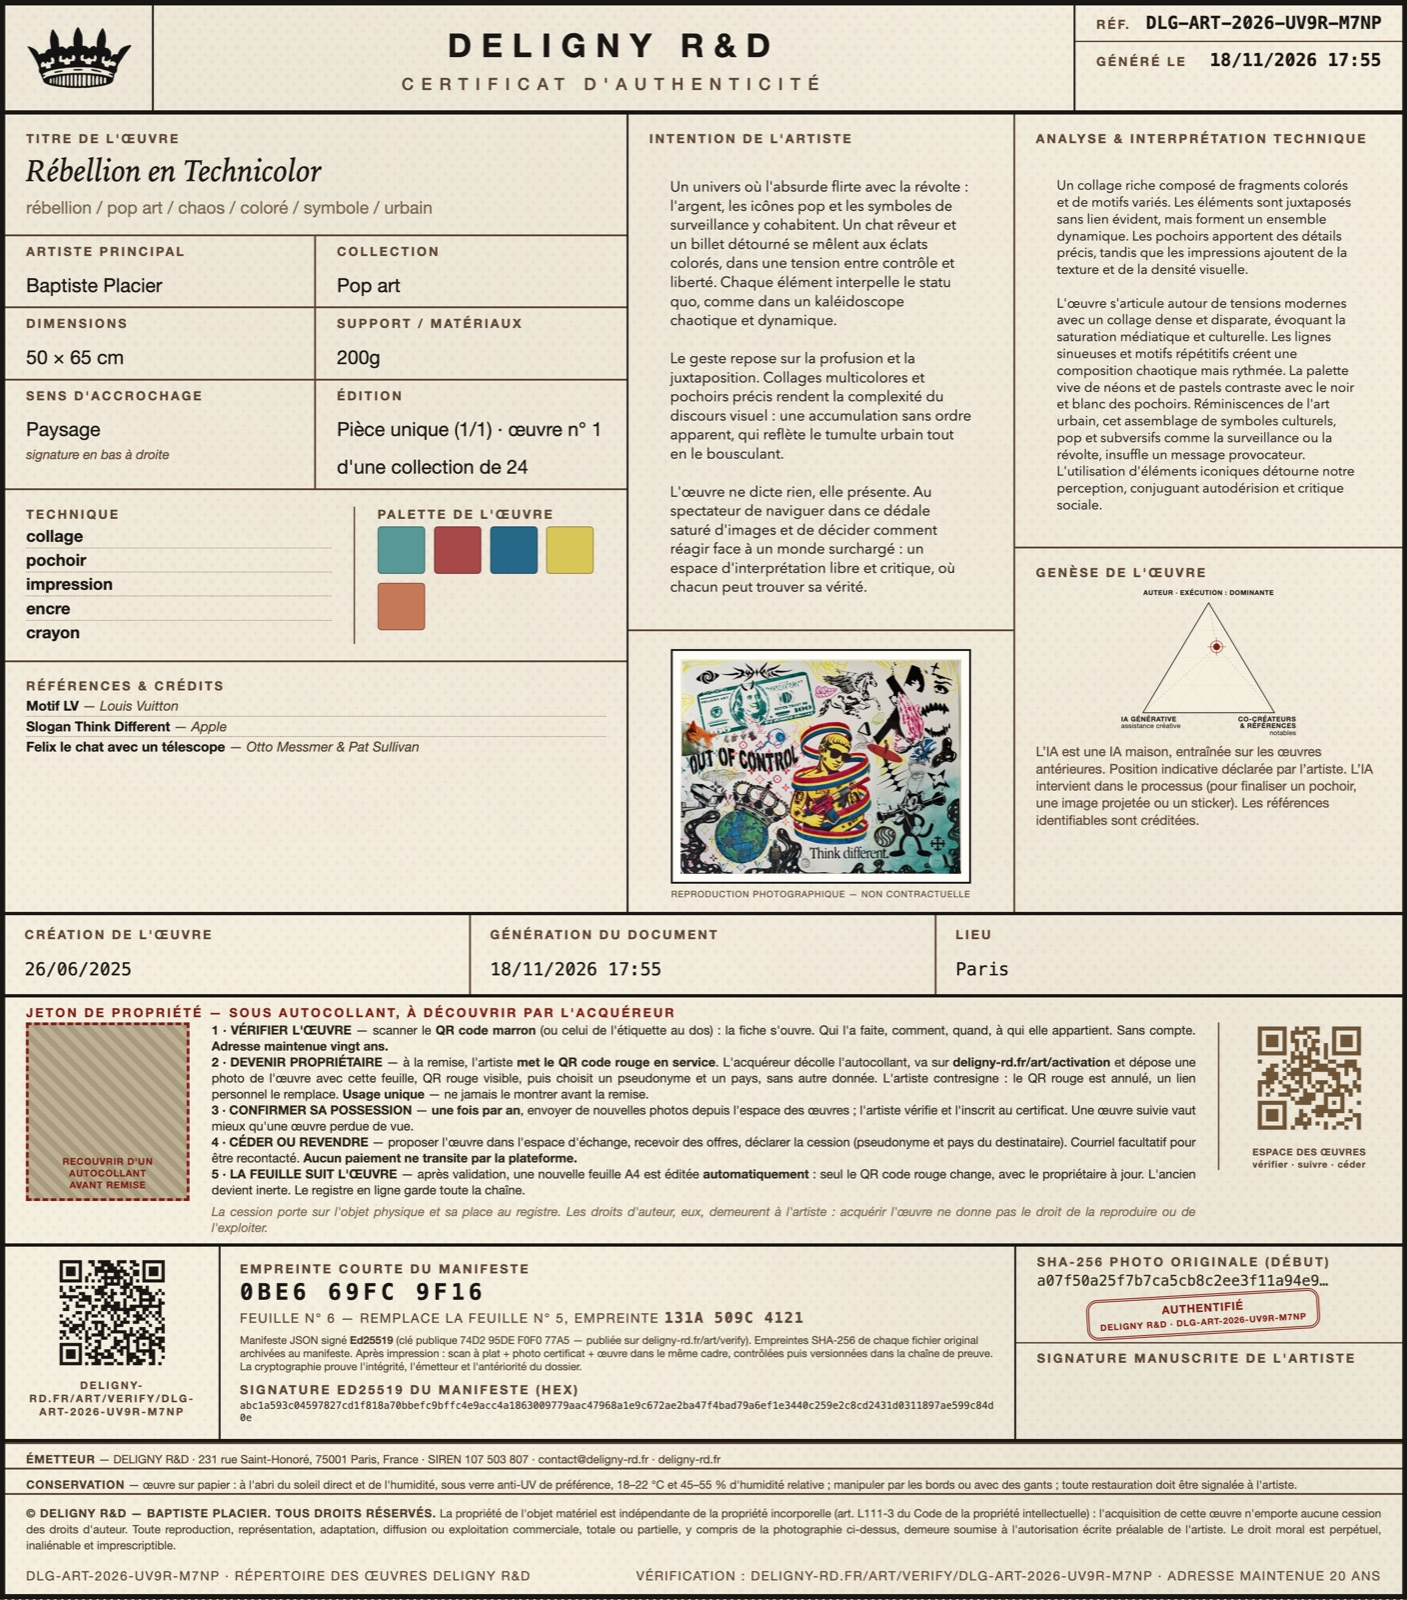
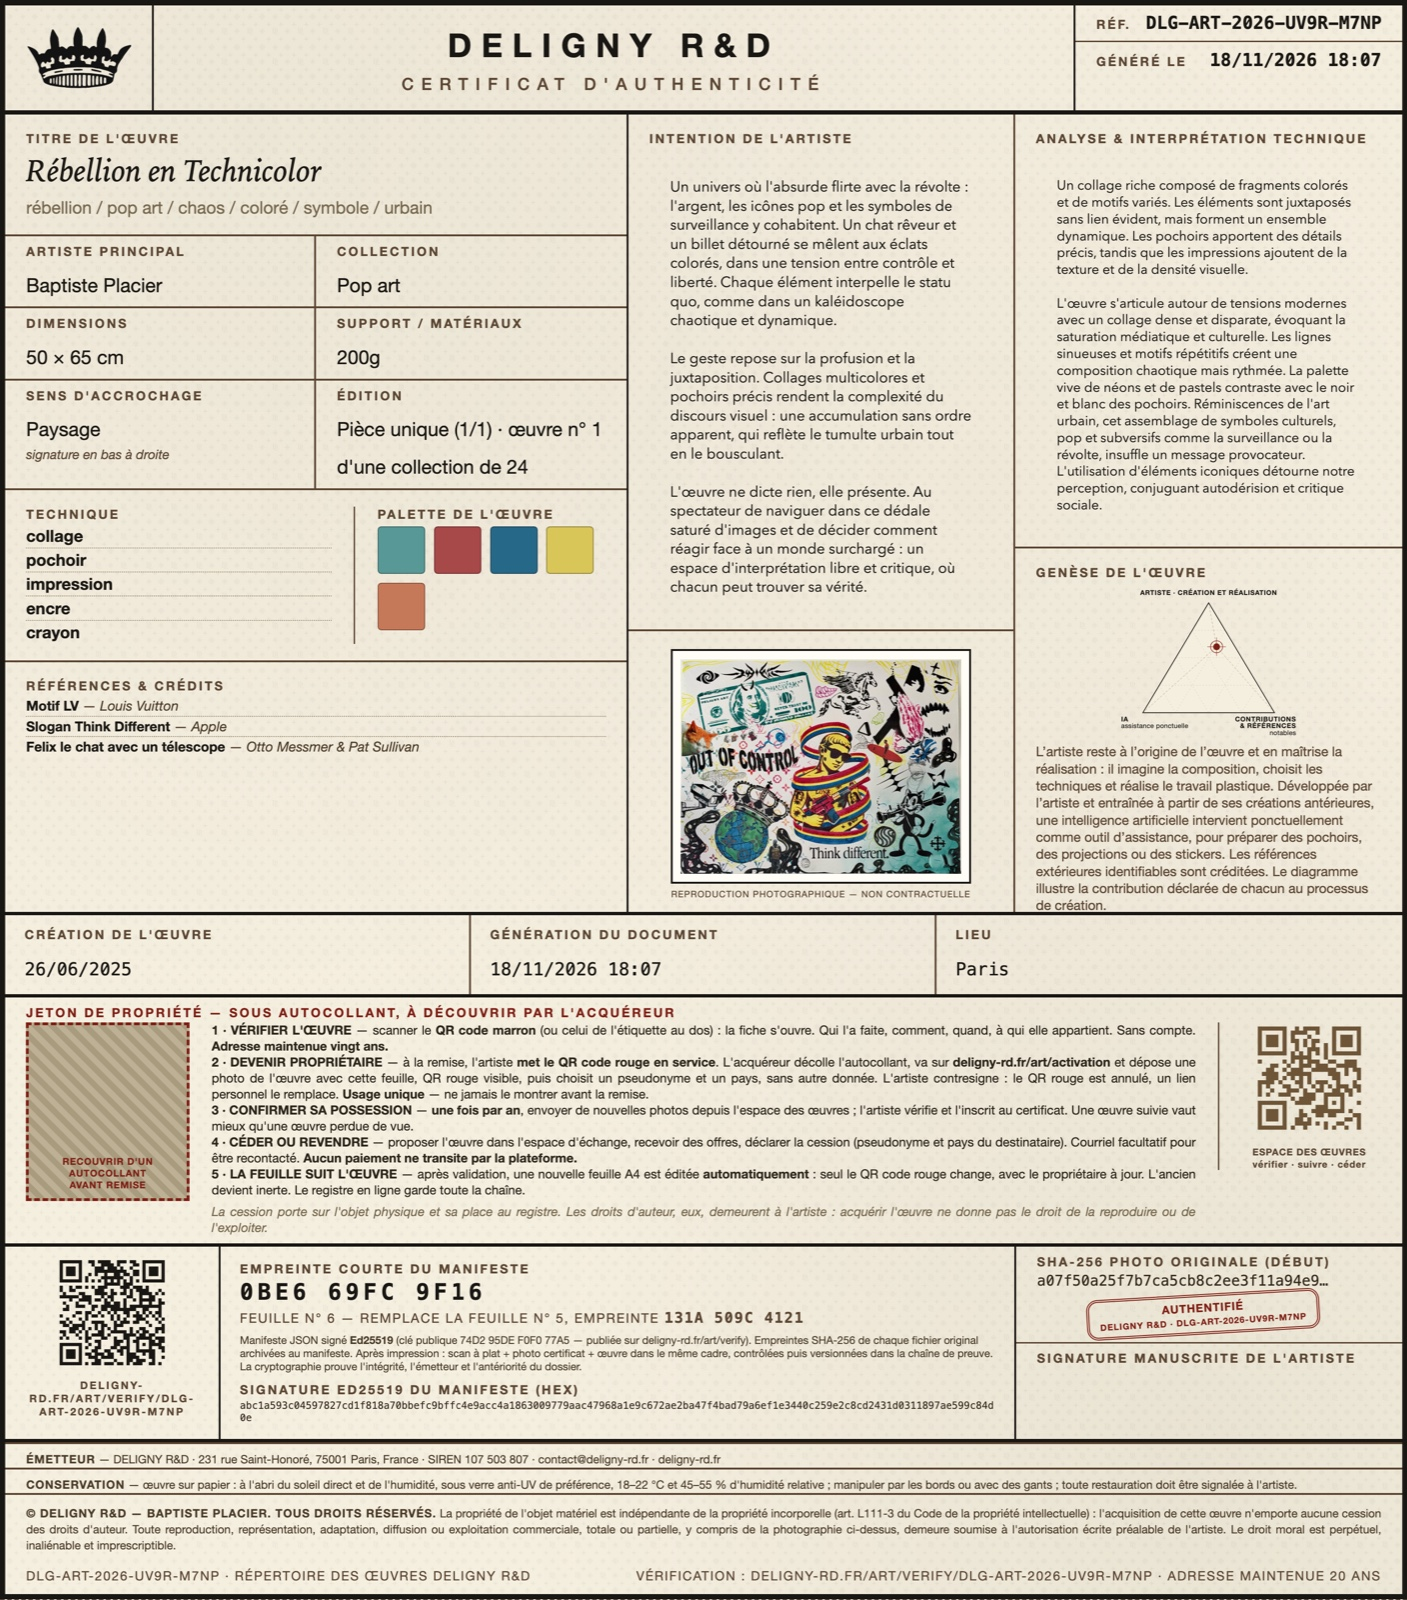
Art : genese reformulee sur les fiches (artiste, IA outil ponctuel, contributions et references)

Changed region(s): [[0.7335, 0.4375, 0.978, 0.5938], [0.9474, 0.0312, 0.978, 0.0625]]

diff --git a/art/verify/DLG-ART-2026-ET3D-G8HV/index.html b/art/verify/DLG-ART-2026-ET3D-G8HV/index.html
@@ -145,13 +145,13 @@ Aucun dogme n&#x27;est imposé ici. La composition abandonne ses signaux discord
   <circle cx="102.2" cy="73.7" r="7.8" fill="none" stroke="#7e1e14" stroke-width="0.7"/>
   <line x1="90.2" y1="73.7" x2="114.2" y2="73.7" stroke="#7e1e14" stroke-width="0.5"/>
   <line x1="102.2" y1="61.7" x2="102.2" y2="85.7" stroke="#7e1e14" stroke-width="0.5"/>
-  <text x="115.0" y="14" text-anchor="middle" class="tlab">AUTEUR · EXÉCUTION : DOMINANTE</text>
-  <text x="2" y="177" text-anchor="start" class="tlab">IA GÉNÉRATIVE</text>
-  <text x="2" y="186" text-anchor="start" class="tlab tniv">assistance créative</text>
-  <text x="228" y="177" text-anchor="end" class="tlab">CO-CRÉATEURS</text>
+  <text x="115.0" y="14" text-anchor="middle" class="tlab">ARTISTE · CRÉATION ET RÉALISATION</text>
+  <text x="2" y="177" text-anchor="start" class="tlab">IA</text>
+  <text x="2" y="186" text-anchor="start" class="tlab tniv">assistance ponctuelle</text>
+  <text x="228" y="177" text-anchor="end" class="tlab">CONTRIBUTIONS</text>
   <text x="228" y="186" text-anchor="end" class="tlab">&amp; RÉFÉRENCES</text>
   <text x="228" y="195" text-anchor="end" class="tlab tniv">ponctuelles</text>
-</svg></div><p style="font-size:11.5px;color:#5b4632">L’IA est une IA maison, entraînée sur les œuvres antérieures. Position indicative déclarée par l’artiste. L’IA intervient dans le processus (pour finaliser un pochoir, une image projetée ou un sticker). Les références identifiables sont créditées.</p>
+</svg></div><p style="font-size:11.5px;color:#5b4632">L’artiste reste à l’origine de l’œuvre et en maîtrise la réalisation : il imagine la composition, choisit les techniques et réalise le travail plastique. Développée par l’artiste et entraînée à partir de ses créations antérieures, une intelligence artificielle intervient ponctuellement comme outil d’assistance, pour préparer des pochoirs, des projections ou des stickers. Les références extérieures identifiables sont créditées. Le diagramme illustre la contribution déclarée de chacun au processus de création.</p>
 
 
 

diff --git a/art/verify/DLG-ART-2026-UV9R-M7NP/index.html b/art/verify/DLG-ART-2026-UV9R-M7NP/index.html
@@ -144,13 +144,13 @@ L&#x27;œuvre ne dicte rien, elle présente. Au spectateur de naviguer dans ce d
   <circle cx="125.2" cy="80.8" r="7.8" fill="none" stroke="#7e1e14" stroke-width="0.7"/>
   <line x1="113.2" y1="80.8" x2="137.2" y2="80.8" stroke="#7e1e14" stroke-width="0.5"/>
   <line x1="125.2" y1="68.8" x2="125.2" y2="92.8" stroke="#7e1e14" stroke-width="0.5"/>
-  <text x="115.0" y="14" text-anchor="middle" class="tlab">AUTEUR · EXÉCUTION : DOMINANTE</text>
-  <text x="2" y="177" text-anchor="start" class="tlab">IA GÉNÉRATIVE</text>
-  <text x="2" y="186" text-anchor="start" class="tlab tniv">assistance créative</text>
-  <text x="228" y="177" text-anchor="end" class="tlab">CO-CRÉATEURS</text>
+  <text x="115.0" y="14" text-anchor="middle" class="tlab">ARTISTE · CRÉATION ET RÉALISATION</text>
+  <text x="2" y="177" text-anchor="start" class="tlab">IA</text>
+  <text x="2" y="186" text-anchor="start" class="tlab tniv">assistance ponctuelle</text>
+  <text x="228" y="177" text-anchor="end" class="tlab">CONTRIBUTIONS</text>
   <text x="228" y="186" text-anchor="end" class="tlab">&amp; RÉFÉRENCES</text>
   <text x="228" y="195" text-anchor="end" class="tlab tniv">notables</text>
-</svg></div><p style="font-size:11.5px;color:#5b4632">L’IA est une IA maison, entraînée sur les œuvres antérieures. Position indicative déclarée par l’artiste. L’IA intervient dans le processus (pour finaliser un pochoir, une image projetée ou un sticker). Les références identifiables sont créditées.</p>
+</svg></div><p style="font-size:11.5px;color:#5b4632">L’artiste reste à l’origine de l’œuvre et en maîtrise la réalisation : il imagine la composition, choisit les techniques et réalise le travail plastique. Développée par l’artiste et entraînée à partir de ses créations antérieures, une intelligence artificielle intervient ponctuellement comme outil d’assistance, pour préparer des pochoirs, des projections ou des stickers. Les références extérieures identifiables sont créditées. Le diagramme illustre la contribution déclarée de chacun au processus de création.</p>
 
 
 
